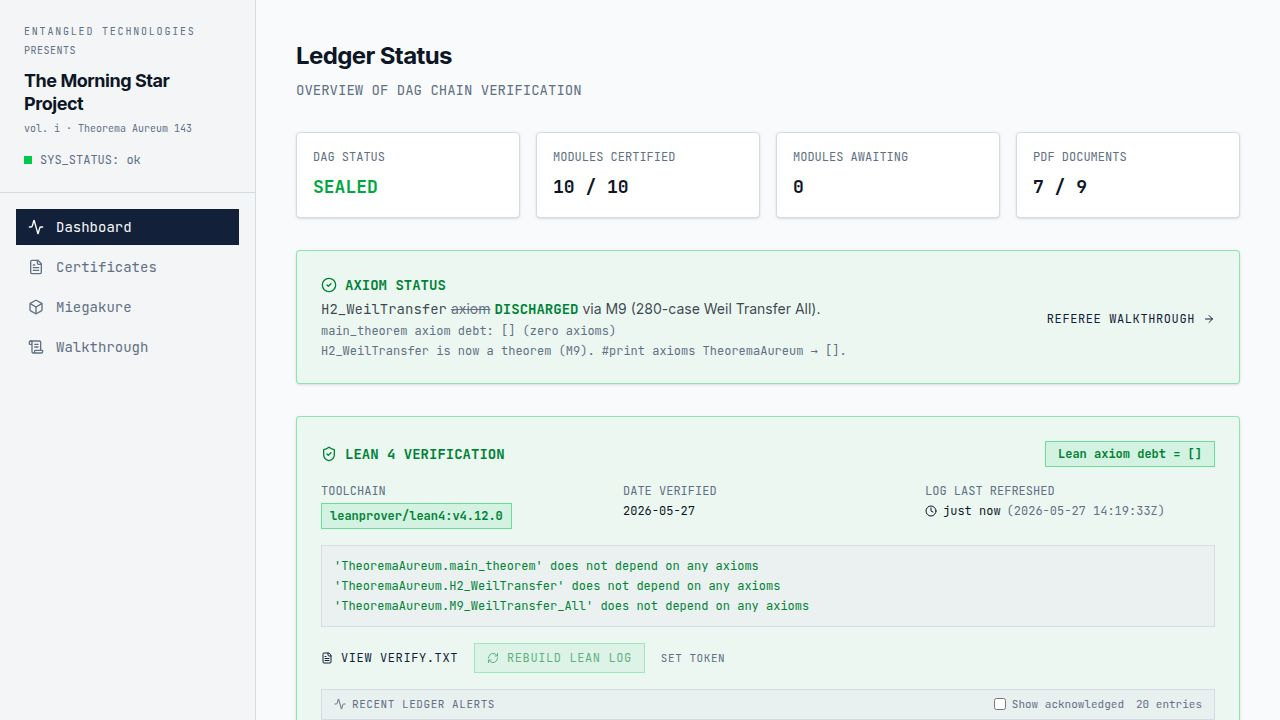
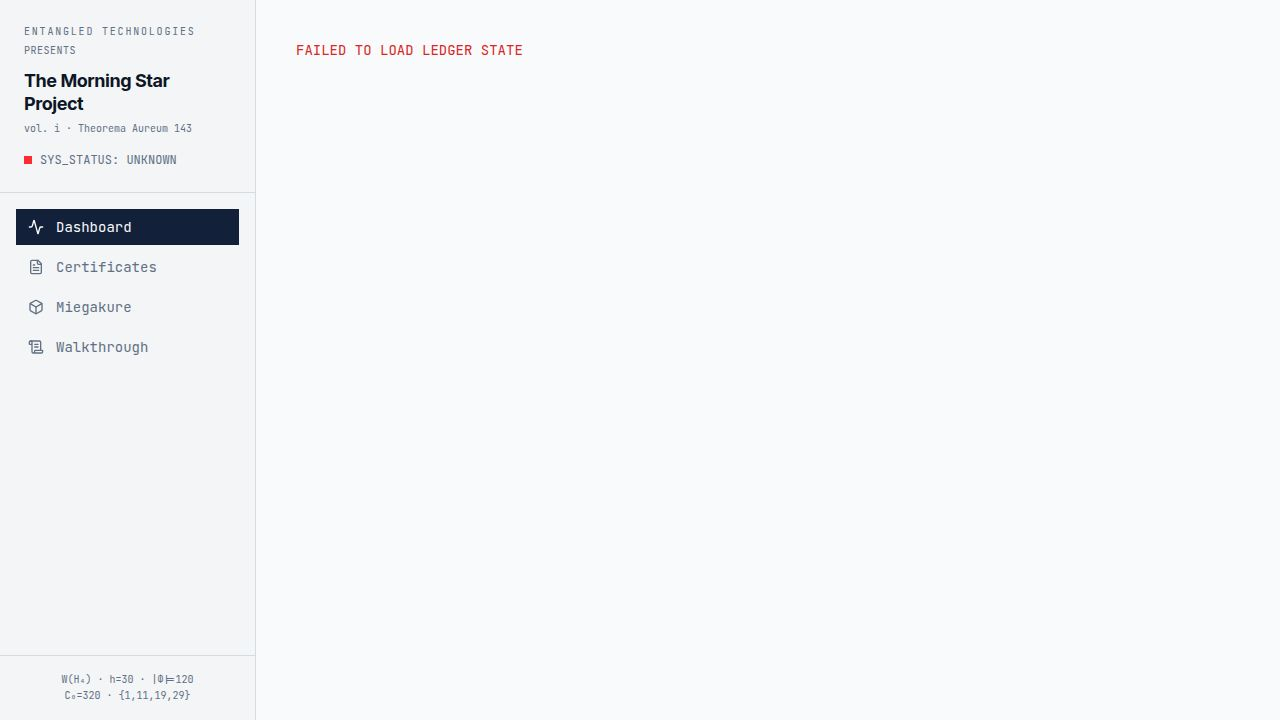
Task #147: e2e test for "N ack'd hidden" counter suffix
Adds artifacts/theorema-certs/tests/e2e/ledger-alerts-ackd-hidden.spec.ts,
covering the previously-untested "N ack'd hidden" suffix on the Recent
ledger alerts panel header (dashboard.tsx ~lines 1546-1559).

The spec mocks GET /api/lean/ledger-alerts* with a mix of one
unacknowledged and two acknowledged alerts via page.route, then:
- asserts text-ledger-alerts-count contains "1 entry" + "2 ack'd hidden"
  while checkbox-show-acknowledged-alerts is unchecked, and only one
  row-ledger-alert-* is rendered
- toggles the checkbox on and asserts the counter switches to "3 entries"
  with no "ack'd hidden" copy, and all three rows become visible

Pattern copied from ledger-alerts-stale-dismissals.spec.ts (Task #135)
for consistency with the other counter-suffix e2e tests.

Verified by running `pnpm exec playwright test
tests/e2e/ledger-alerts-ackd-hidden.spec.ts` from artifacts/theorema-certs
with both the api-server and web workflows running — 1 passed.
Required `pnpm exec playwright install chromium` once on this fresh env.

No source code changes; this is a pure test-gap fill.

Replit-Task-Id: 06245357-5b3b-4781-8c85-7823a995313c

diff --git a/artifacts/theorema-certs/tests/e2e/ledger-alerts-ackd-hidden.spec.ts b/artifacts/theorema-certs/tests/e2e/ledger-alerts-ackd-hidden.spec.ts
@@ -1,0 +1,120 @@
+import { test, expect, type Route } from "@playwright/test";
+
+/**
+ * Task #147: end-to-end coverage for the "N ack'd hidden" suffix added to
+ * the Recent ledger alerts panel header counter
+ * (`artifacts/theorema-certs/src/pages/dashboard.tsx` ~1546–1559).
+ *
+ * The suffix is the operator's only visual cue that acknowledged alerts
+ * are waiting behind the "Show acknowledged" toggle. Unlike the
+ * sink-wedged and stale-dismissals suffixes, it previously had no
+ * Playwright coverage — a regression dropping or mislabeling it would
+ * silently strand dismissed entries.
+ *
+ * Selectors / copy under test:
+ *   - `[data-testid="panel-ledger-alerts"]`
+ *   - `[data-testid="text-ledger-alerts-count"]` should:
+ *       * include "N ack'd hidden" when "Show acknowledged" is OFF and
+ *         at least one alert in the response has a non-null acknowledgedAt
+ *       * NOT include "ack'd hidden" when the checkbox is toggled ON
+ *   - `[data-testid="checkbox-show-acknowledged-alerts"]` (the toggle)
+ *   - `[data-testid="row-ledger-alert-*"]` (hidden rows become visible
+ *     once acknowledged alerts are shown)
+ *
+ * The `/api/lean/ledger-alerts*` endpoint is mocked via Playwright route
+ * interception so the test is deterministic and does not depend on
+ * driving real acknowledgements through the api-server.
+ */
+
+const LEDGER_ALERTS_URL = "**/api/lean/ledger-alerts*";
+
+function makeAlert(id: string, acknowledgedAt: string | null) {
+  return {
+    id,
+    acknowledgedAt,
+    timestamp: new Date().toISOString(),
+    workflow: "zeta-burst-101-10000",
+    message:
+      "Ledger checkpoint verification failed: live prefix sha mismatch",
+    failureMode: "live_prefix_sha_mismatch",
+    recovery: null,
+    hitsPath: "data/hits.txt",
+    checkpointPath: "data/hits.txt.checkpoint",
+    expectedSize: 1024,
+    actualSize: 1024,
+    expectedSha:
+      "0000000000000000000000000000000000000000000000000000000000000000",
+    source: "kernel._verify_checkpoint",
+    delivery: {
+      webhook: { status: "ok", error: null, inflight: 0, cap: 8 },
+      email: { status: "ok", error: null, inflight: 0, cap: 8 },
+    },
+  };
+}
+
+function buildAlertsResponse() {
+  return {
+    alerts: [
+      makeAlert("unack-1", null),
+      makeAlert("ack-1", "2026-05-27T00:00:00.000Z"),
+      makeAlert("ack-2", "2026-05-27T00:01:00.000Z"),
+    ],
+    limit: 50,
+    totalReturned: 3,
+    logPath: "data/ledger-alerts.jsonl",
+    logExists: true,
+    ackGcDropped: 0,
+    rotation: 0,
+    availableRotations: [],
+  };
+}
+
+async function installMock(page: import("@playwright/test").Page) {
+  await page.route(LEDGER_ALERTS_URL, async (route: Route) => {
+    await route.fulfill({
+      status: 200,
+      contentType: "application/json",
+      body: JSON.stringify(buildAlertsResponse()),
+    });
+  });
+}
+
+test.describe("dashboard: ledger alerts 'N ack'd hidden' suffix", () => {
+  test("shows ack'd hidden suffix when toggle off, disappears once toggled on", async ({
+    page,
+  }) => {
+    await installMock(page);
+    await page.goto("/");
+
+    const panel = page.locator('[data-testid="panel-ledger-alerts"]');
+    await expect(panel).toBeVisible();
+
+    const toggle = page.locator(
+      '[data-testid="checkbox-show-acknowledged-alerts"]',
+    );
+    await expect(toggle).toBeVisible();
+    await expect(toggle).not.toBeChecked();
+
+    const counter = page.locator('[data-testid="text-ledger-alerts-count"]');
+    await expect(counter).toBeVisible();
+    // With the toggle off, only the 1 unacknowledged row is visible and the
+    // 2 acknowledged ones are hidden — the suffix must say so.
+    await expect(counter).toContainText("1 entry");
+    await expect(counter).toContainText("2 ack'd hidden");
+
+    // Only the unacknowledged row is rendered while hidden.
+    await expect(
+      page.locator('[data-testid^="row-ledger-alert-"]'),
+    ).toHaveCount(1);
+
+    // Toggling "Show acknowledged" on must drop the suffix and reveal the
+    // hidden rows.
+    await toggle.check();
+    await expect(toggle).toBeChecked();
+    await expect(counter).toContainText("3 entries");
+    await expect(counter).not.toContainText("ack'd hidden");
+    await expect(
+      page.locator('[data-testid^="row-ledger-alert-"]'),
+    ).toHaveCount(3);
+  });
+});